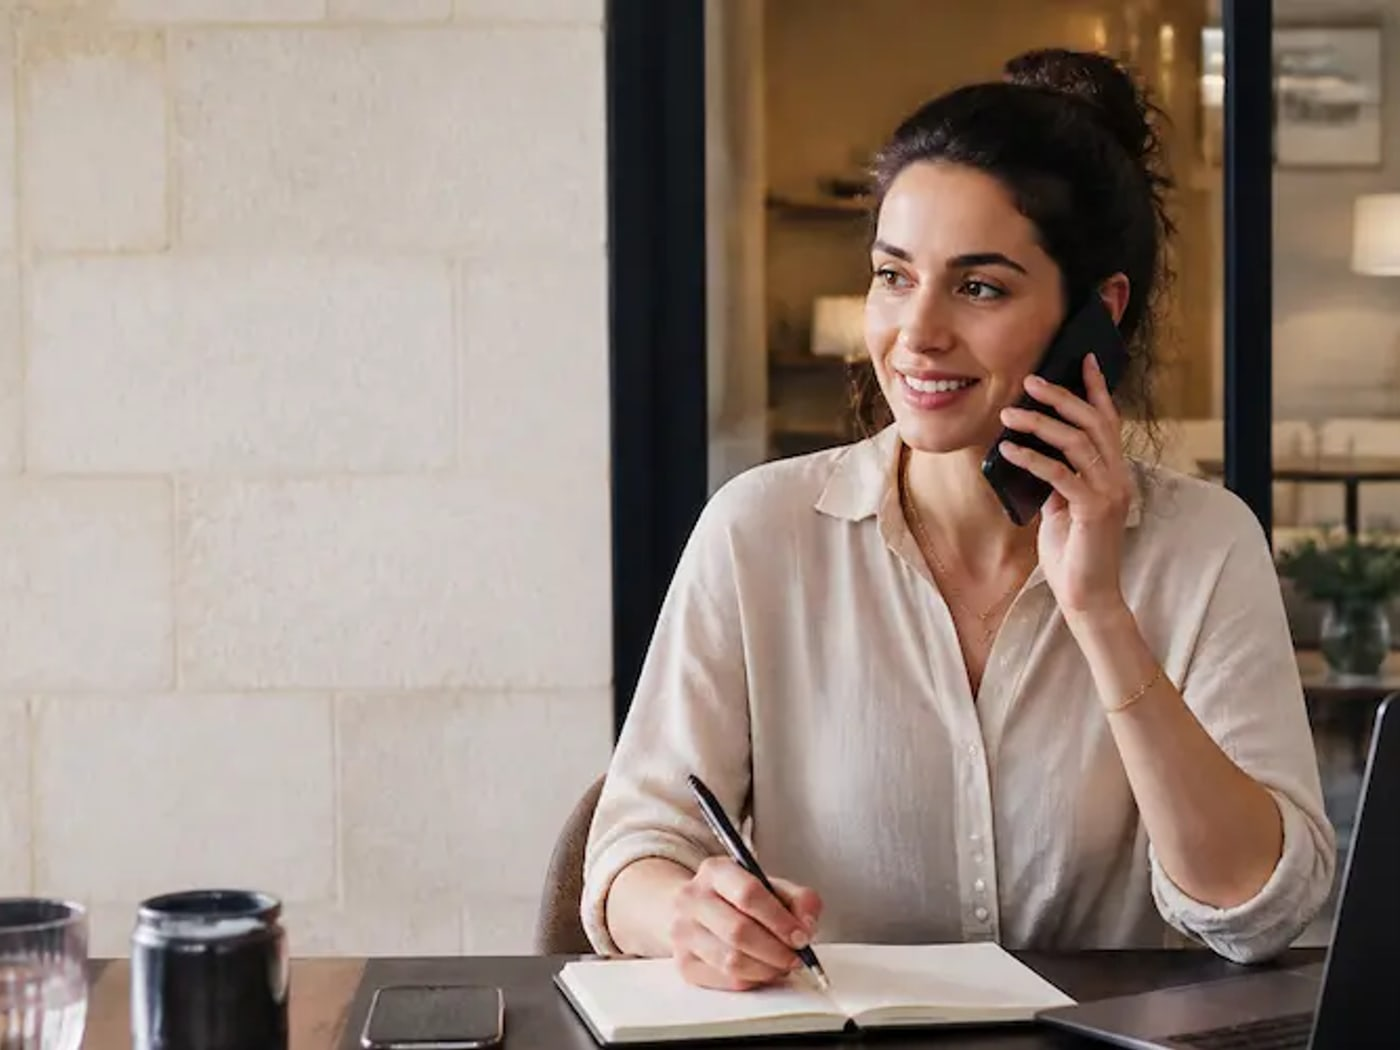
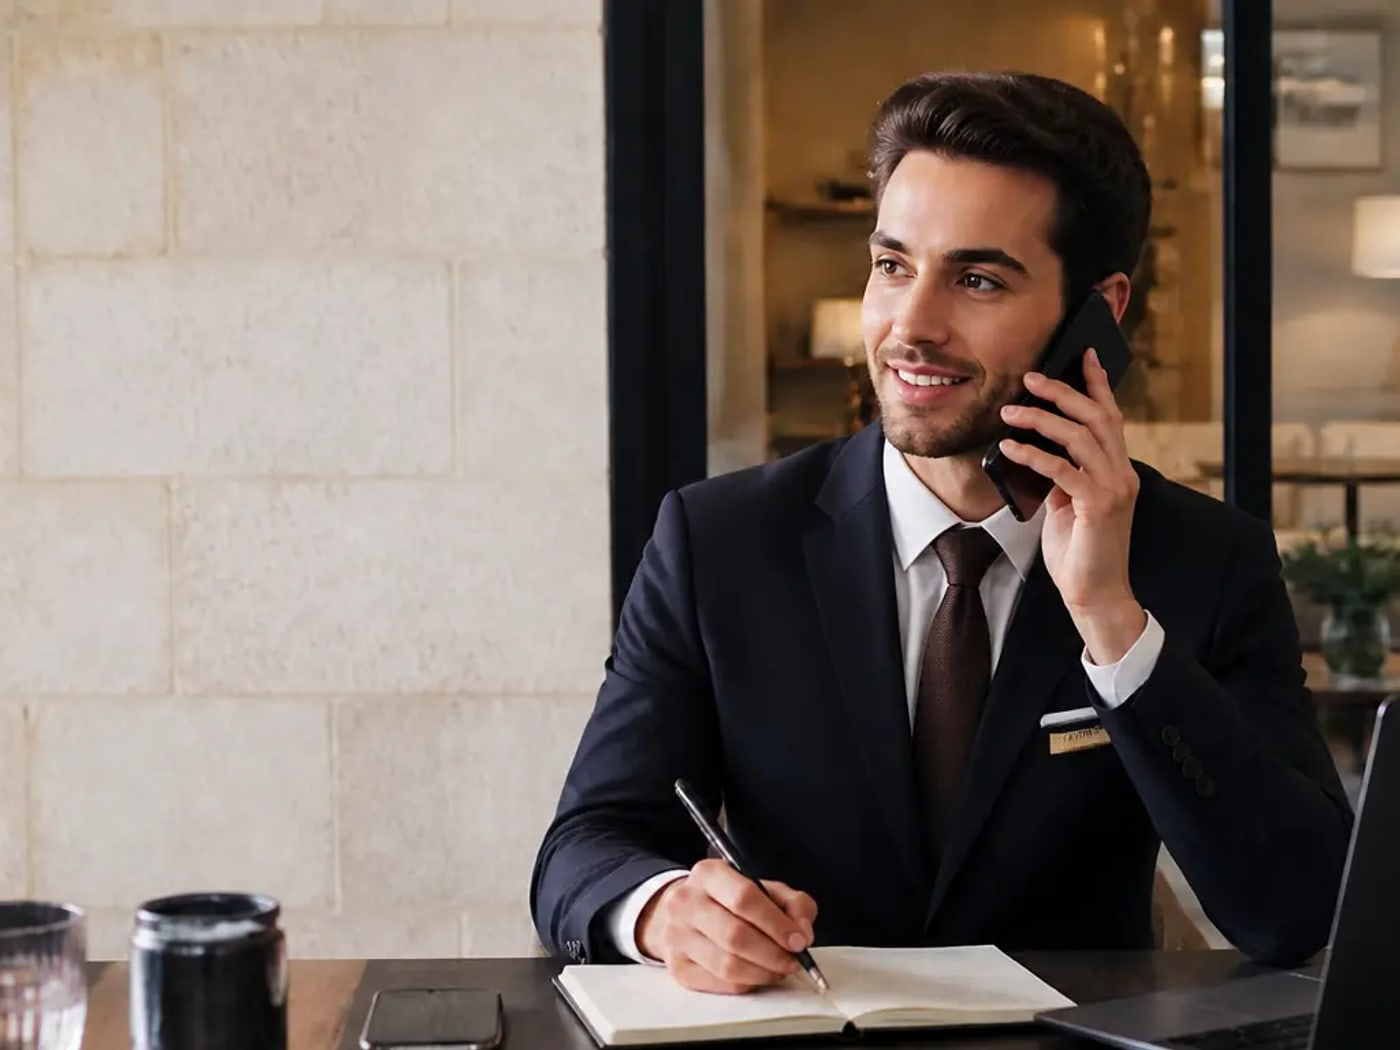
Page quartier : receptionniste + photo d'arrivee en famille
- "Une equipe qui vous parle" -> photo du client (receptionniste en
  costume, au telephone, carnet en main), remplace la photo generique.
- Banniere finale -> nouvelle photo fournie par le client : famille de 4
  personnes arrivant valises a la main devant une facade en pierre de
  Jerusalem (public/brand/arrivee-famille.jpg, format large non recadre
  en carre, object-cover gere l'affichage). Remplace la photo de Chabbat
  qui reste sur sa propre carte "Pret pour Chabbat".

diff --git a/app/[locale]/quartiers/[slug]/page.tsx b/app/[locale]/quartiers/[slug]/page.tsx
@@ -29,9 +29,9 @@ export async function generateStaticParams() {
 }
 
 // Visuels des arguments — un par entrée de dict.neighborhoodPage.usp, dans le
-// même ordre. Chabbat/terrasses/équipe/propreté : visuels fournis par le
-// client (scènes de vie, public/brand/usp/). Emplacement/confort hôtelier :
-// vraies photos des appartements importés, en attendant un visuel dédié.
+// même ordre. Tous fournis par le client (public/brand/usp/) : scènes de vie
+// (Chabbat, terrasse, équipe) et photos réelles de jerusalem-rent.com
+// (emplacement = Kikar Hamusica à Nahalat Shiva, confort = salon MBH).
 const USP_IMAGES = [
   "/brand/usp/chabbat.jpg",
   "/brand/usp/emplacement.jpg",
@@ -41,10 +41,10 @@ const USP_IMAGES = [
   "/brand/usp/proprete.jpg",
 ];
 
-// Bannière finale : visuel "de vie" fourni par le client (famille pour
-// Chabbat) — répond à la demande initiale d'une photo avec des personnes
-// dans un appartement plutôt qu'un intérieur vide.
-const CTA_BANNER_IMAGE = "/brand/usp/chabbat.jpg";
+// Bannière finale : visuel "de vie" fourni par le client (famille à
+// l'arrivée, valises à la main) — répond à la demande initiale d'une photo
+// avec des personnes plutôt qu'un intérieur vide.
+const CTA_BANNER_IMAGE = "/brand/arrivee-famille.jpg";
 
 async function getNeighborhoodData(name: string, locale: Locale) {
   const [properties, total] = await Promise.all([
